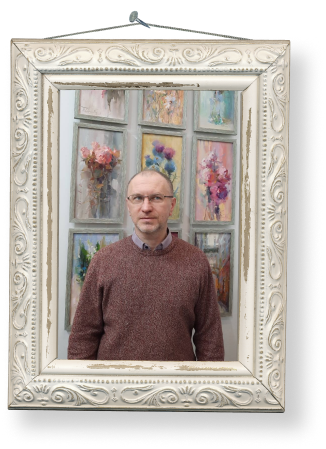
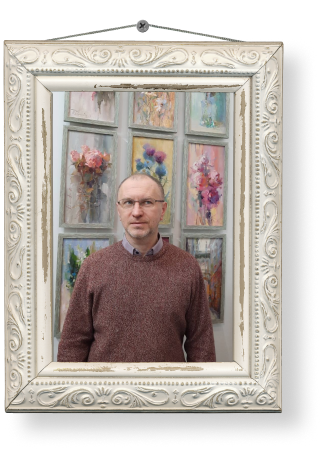
animation swing, frames update

diff --git a/src/components/MainPoster.vue b/src/components/MainPoster.vue
@@ -44,18 +44,41 @@ const router = useRouter();
 
 .paint-in-frame {
   display: flex;
-  justify-content: center;
-
   min-width: 50%;
-  transform: rotate(-4deg);
+  justify-content: center;
 }
 
 .paint-in-frame img {
   width: 70%;
   height: auto;
   max-width: 890px;
+  transform: rotate(0deg);
+  transform-origin: 48% 6%;
+
+  animation-delay: 5s;
+  animation-duration: 4s;
+  animation-name: paint-swing;
+  animation-iteration-count: infinite;
+  animation-timing-function: ease-in-out;
 }
 
+@keyframes paint-swing {
+  15% {
+   transform: rotate(5deg);
+  }
+  30% {
+    transform: rotate(-4deg);
+  }
+  50% {
+    transform: rotate(3deg);
+  }
+  70% {
+    transform: rotate(-2deg);
+  }
+  90% {
+    transform: rotate(0deg);
+  }
+}
 .main-text {
   display: flex;
   margin: 0 20px;
@@ -80,6 +103,7 @@ button {
   margin: 20px 0;
   align-self: center;
   border-radius: 10px;
+
   width: 60%;
   height: auto;
   max-width: 350px;
